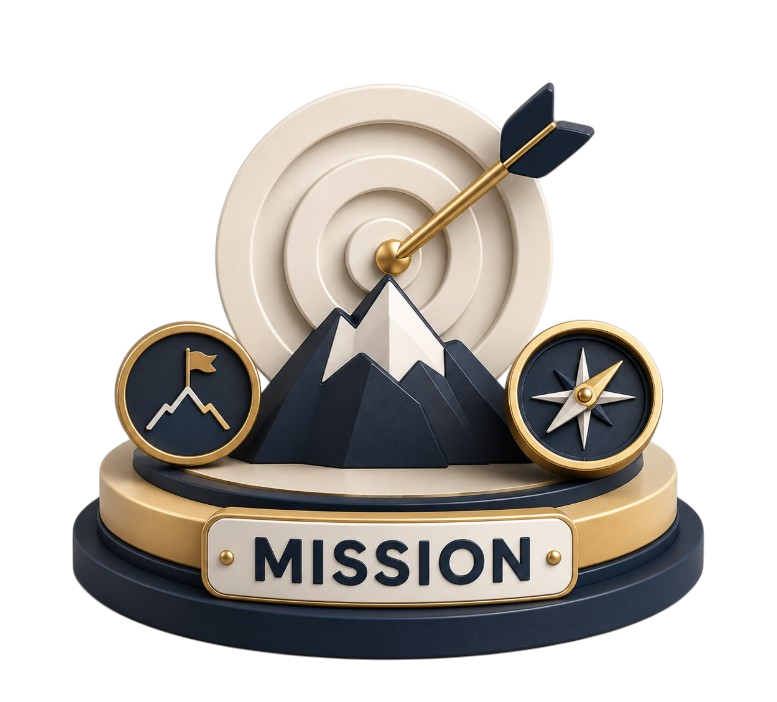
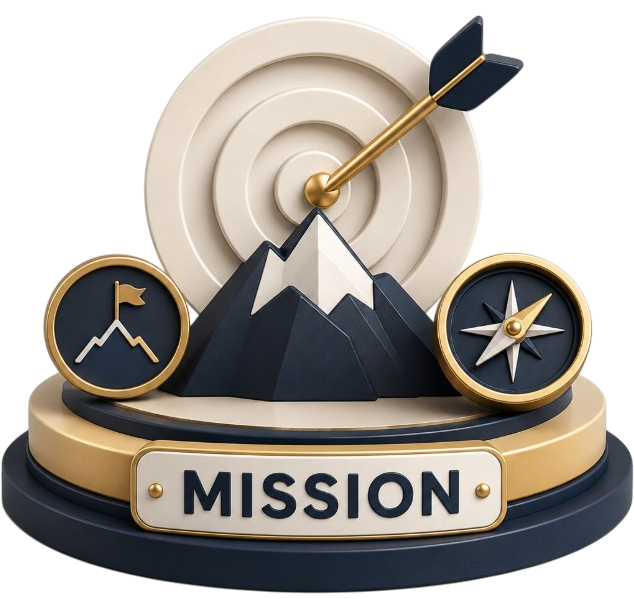
updated the images and all(2)

diff --git a/components/about/MissionBlock.tsx b/components/about/MissionBlock.tsx
@@ -1,5 +1,6 @@
 "use client";
 
+import { Fragment } from "react";
 import Image from "next/image";
 import { motion, useReducedMotion, type Variants } from "framer-motion";
 import { RevealOnScroll } from "@/components/primitives/RevealOnScroll";
@@ -46,10 +47,10 @@ export function MissionBlock() {
       )}
 
       <div className="container-kio relative z-10">
-        <div className="mx-auto flex max-w-5xl flex-col-reverse items-center gap-10 md:flex-row md:justify-between md:gap-12">
+        <div className="mx-auto flex max-w-6xl flex-col items-center gap-12 lg:flex-row lg:gap-12">
 
-          {/* Text */}
-          <div className="text-center md:flex-1 md:text-left">
+          {/* Text column */}
+          <div className="text-center">
             <RevealOnScroll>
               {/* Animated accent label */}
               <motion.div
@@ -71,22 +72,20 @@ export function MissionBlock() {
               initial="hidden"
               whileInView="show"
               viewport={{ once: true }}
-              className="mt-4 text-3xl font-bold text-white md:text-4xl leading-snug"
+              className="mt-4 whitespace-normal text-3xl font-bold text-white md:text-4xl leading-snug lg:whitespace-nowrap lg:text-xl xl:text-[1.75rem]"
             >
               {HEADING.split(" ").map((word, i) => (
-                <motion.span
-                  key={i}
-                  variants={rm ? {} : wordVariants}
-                  className="inline-block mr-[0.3em]"
-                >
-                  {word}
-                </motion.span>
+                <Fragment key={i}>
+                  <motion.span variants={rm ? {} : wordVariants} className="inline-block">
+                    {word}
+                  </motion.span>{" "}
+                </Fragment>
               ))}
             </motion.h2>
 
             {/* Animated accent divider */}
             <motion.div
-              className="mx-auto mt-6 h-px w-24 rounded-full bg-gradient-to-r from-kio-accent to-kio-accent2 md:mx-0"
+              className="mx-auto mt-6 h-px w-24 rounded-full bg-gradient-to-r from-kio-accent to-kio-accent2"
               initial={{ scaleX: 0 }}
               whileInView={{ scaleX: 1 }}
               viewport={{ once: true }}
@@ -95,10 +94,10 @@ export function MissionBlock() {
             />
           </div>
 
-          {/* Mission miniature */}
-          <RevealOnScroll className="shrink-0">
+          {/* Mission miniature — right side */}
+          <RevealOnScroll className="flex justify-center lg:flex-1 lg:justify-end">
             <motion.div
-              className="relative h-28 w-28 md:h-36 md:w-36"
+              className="relative h-40 w-40 md:h-52 md:w-52"
               initial={{ opacity: 0, scale: 0.6, rotate: -8 }}
               whileInView={{ opacity: 1, scale: 1, rotate: 0 }}
               viewport={{ once: true }}

diff --git a/content/values.ts b/content/values.ts
@@ -10,30 +10,30 @@ export const values: Value[] = [
     id: "v-1",
     title: "Guest-First Thinking",
     body: "Every decision we make starts with one question: how does this improve the guest's experience?",
-    image: "/img/about/perks/guest.png",
+    image: "/img/about/perks/guest.webp",
   },
   {
     id: "v-2",
     title: "Reliability Around the Clock",
     body: "We don't take nights off. Our team is trained and equipped to handle any situation, any hour.",
-    image: "/img/about/perks/reliability.png",
+    image: "/img/about/perks/reliability.webp",
   },
   {
     id: "v-3",
     title: "Operational Rigor",
     body: "Checklists, SLAs, and escalation paths — we build structure so nothing falls through the cracks.",
-    image: "/img/about/perks/operational-rigor.png",
+    image: "/img/about/perks/operational-rigor.webp",
   },
   {
     id: "v-4",
     title: "Cultural Fluency",
     body: "Serving guests across the USA from Surat demands cultural sensitivity and clear communication.",
-    image: "/img/about/perks/cultural-fluency.png",
+    image: "/img/about/perks/cultural-fluency.webp",
   },
   {
     id: "v-5",
     title: "Care for Our Team",
     body: "Happy agents make happy guests. We invest in training, wellness, and recognition for every team member.",
-    image: "/img/about/perks/care-for-our-team.png",
+    image: "/img/about/perks/care-for-our-team.webp",
   },
 ];

diff --git a/components/home/BrandStrip.tsx b/components/home/BrandStrip.tsx
@@ -55,7 +55,6 @@ export function BrandStrip() {
 
       {/* Tagline above heading */}
       <div className="mb-10 text-center">
-        <span className="section-label">Our Hotel Partners</span>
         <p className="text-[clamp(1.1rem,2.5vw,1.6rem)] font-bold tracking-wide text-kio-ink">
           Trusted by Hotels.{" "}
           <span className="text-color-cycle">Loved by Guests.</span>{" "}
@@ -71,7 +70,7 @@ export function BrandStrip() {
         style={{ background: "linear-gradient(to left, #0d1117, transparent)" }} />
 
       {/* Row 1 — scrolls left */}
-      <div className="overflow-hidden mb-6">
+      <div className="overflow-hidden mb-14">
         <div className="marquee-track flex w-max items-center gap-10 px-10">
           {[...ROW1, ...ROW1].map((logo, i) => (
             <LogoItem key={i} {...logo} />

diff --git a/app/clients/page.tsx b/app/clients/page.tsx
@@ -1,6 +1,7 @@
 import type { Metadata } from "next";
 import { clients } from "@/content/clients";
 import { USAClientMap } from "@/components/clients/USAClientMap";
+import { BrandStrip } from "@/components/home/BrandStrip";
 import { CaseStudyDeck } from "@/components/clients/CaseStudyDeck";
 
 export const metadata: Metadata = {
@@ -19,6 +20,7 @@ export default function Clients() {
       <div className="pt-20">
         <USAClientMap clients={clients} />
       </div>
+      <BrandStrip />
       <CaseStudyDeck />
     </>
   );